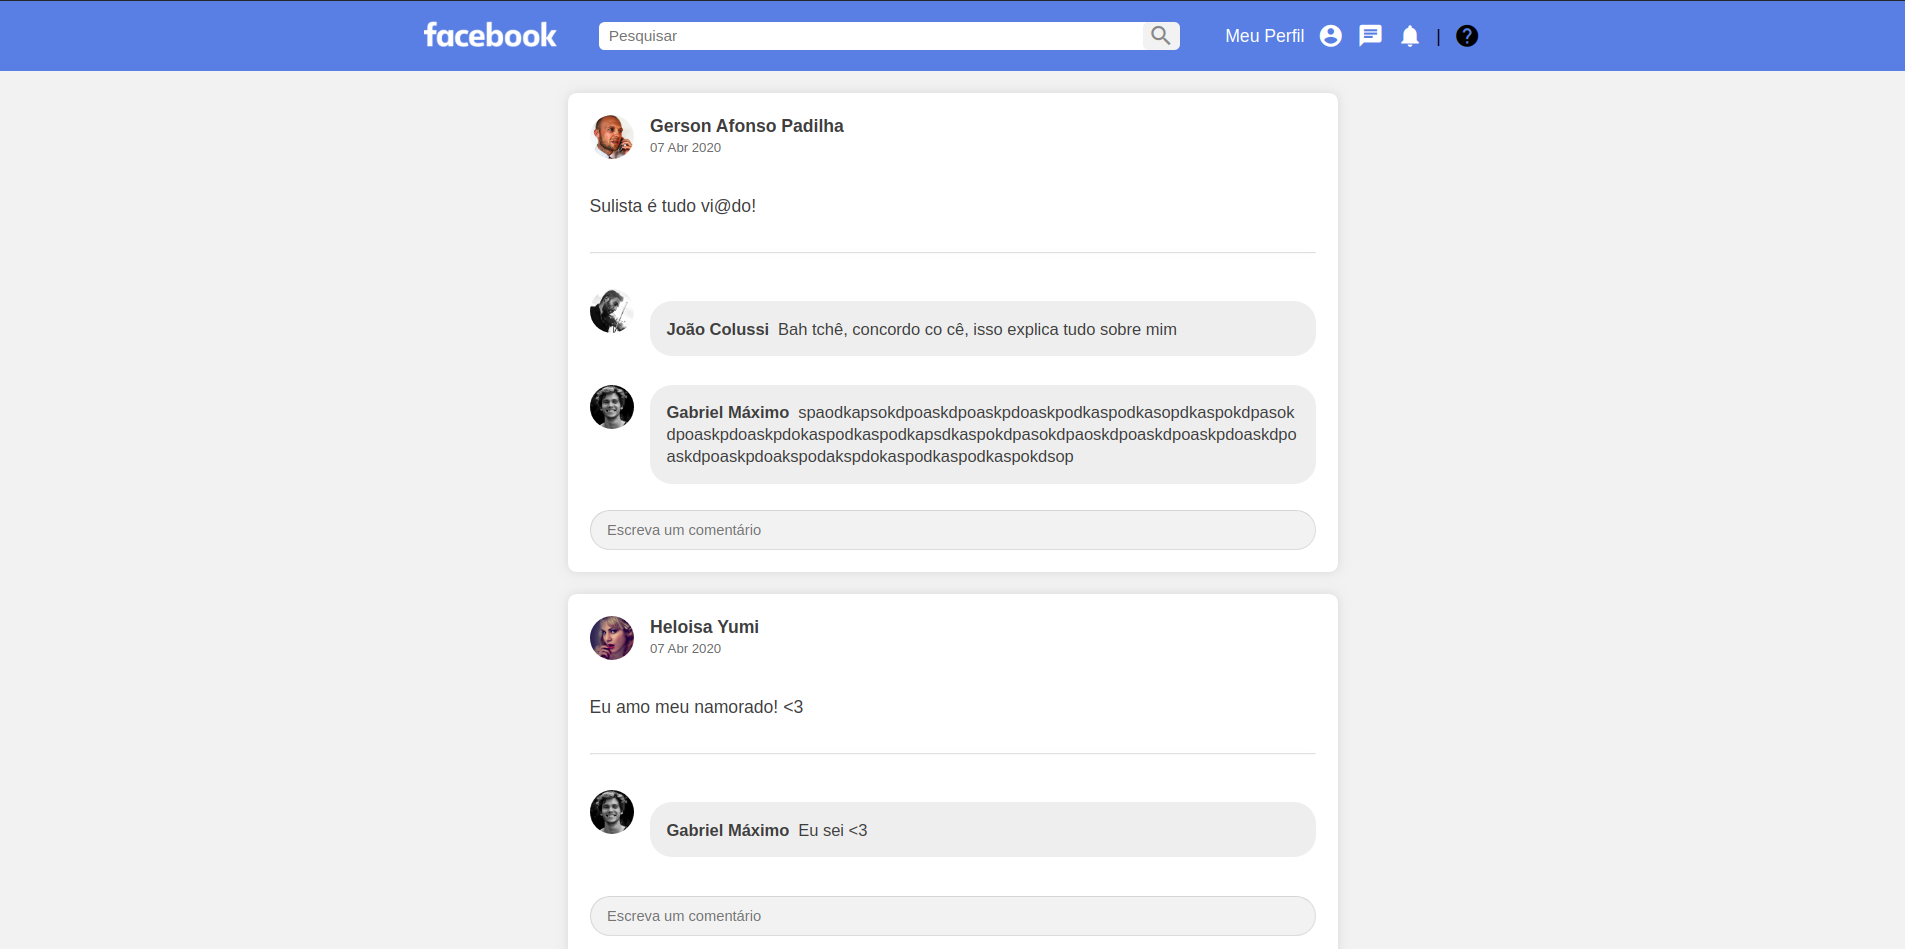
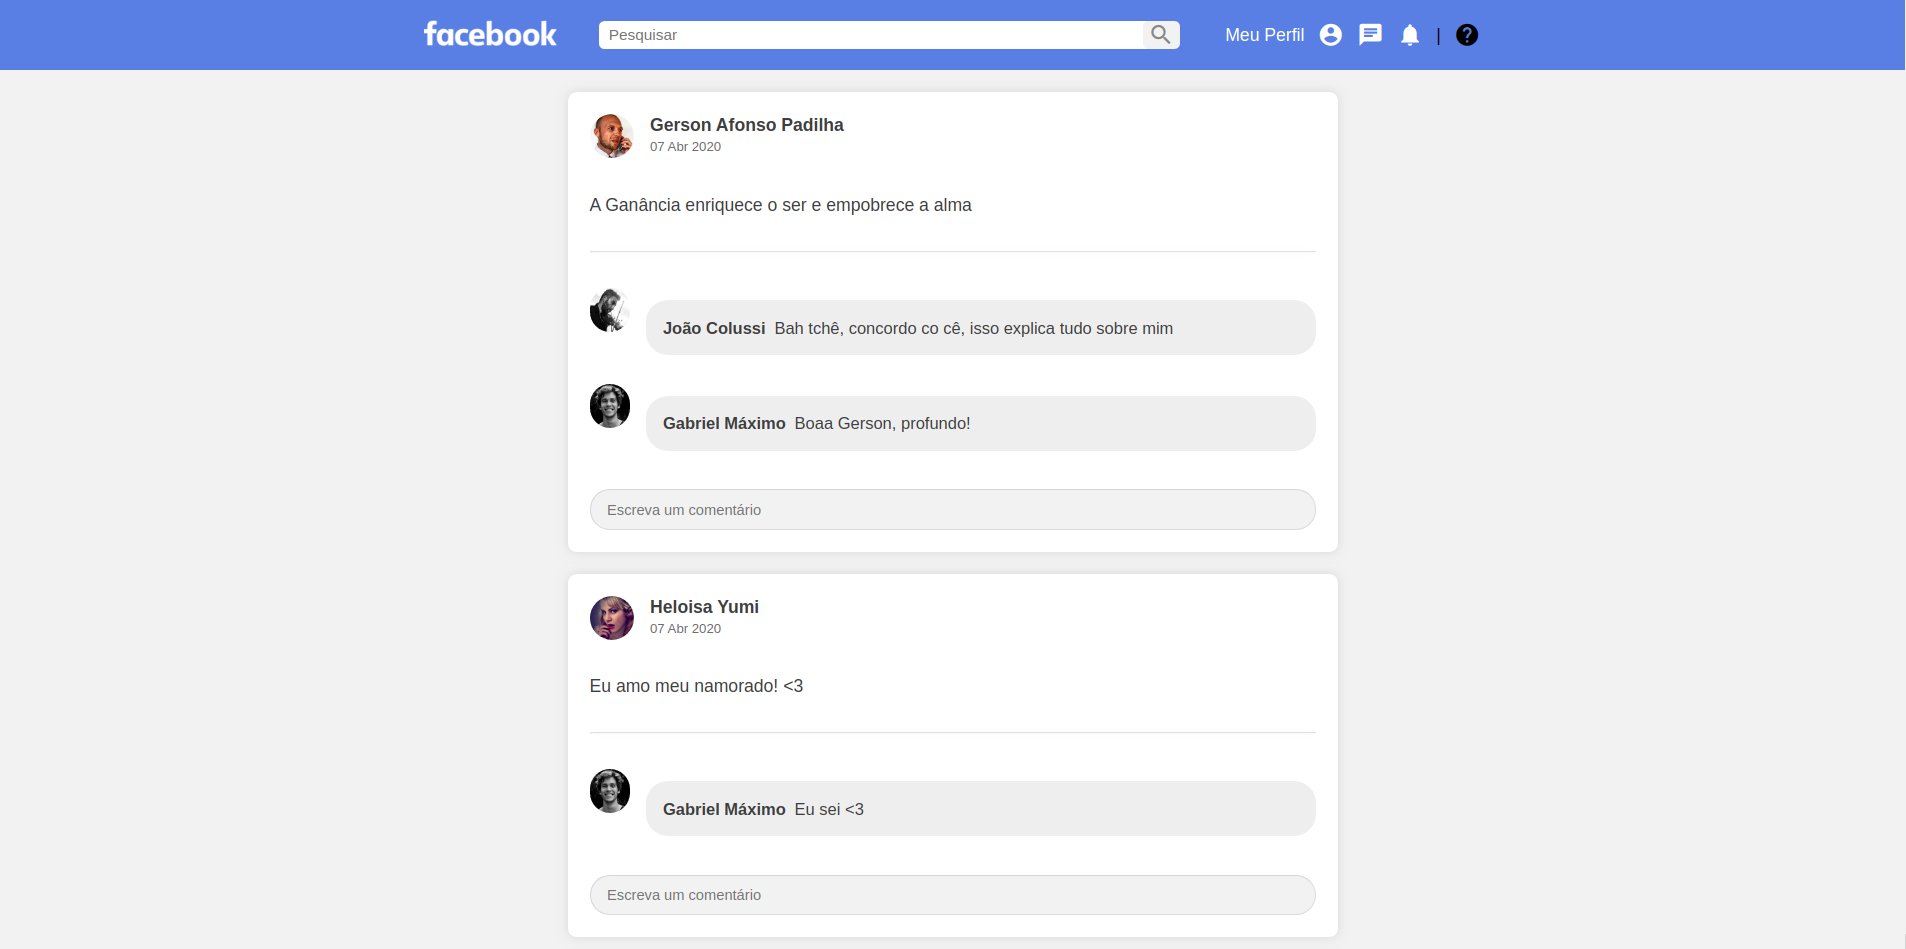
finish aplicattion

diff --git a/src/components/PostList.js b/src/components/PostList.js
@@ -13,7 +13,7 @@ class PostList extends Component {
           avatar: "https://i.pravatar.cc/500?img=18",
         },
         date: "07 Abr 2020",
-        content: "Sulista é tudo vi@do!",
+        content: "A Ganância enriquece o ser e empobrece a alma",
         comments: [
           {
             id: 1,
@@ -29,8 +29,7 @@ class PostList extends Component {
               name: "Gabriel Máximo",
               avatar: "https://i.pravatar.cc/500?img=12",
             },
-            content:
-              "spaodkapsokdpoaskdpoaskpdoaskpodkaspodkasopdkaspokdpasokdpoaskpdoaskpdokaspodkaspodkapsdkaspokdpasokdpaoskdpoaskdpoaskpdoaskdpoaskdpoaskpdoakspodakspdokaspodkaspodkaspokdsop",
+            content: "Boaa Gerson, profundo!",
           },
         ],
       },
